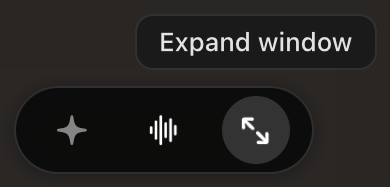
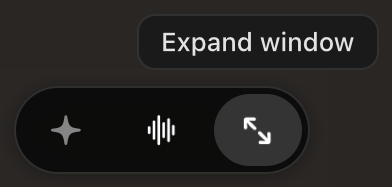
Mini toolbar: hover highlights follow the capsule shape
The highlight was a 34 pt circle in the 44 pt capsule: 5 pt from the top and bottom
but 12 pt from the rounded end. Highlights are now 44×36 pills with one 4 pt inset
everywhere (capsule edge → highlight, highlight → highlight), so the end ones are
concentric with the capsule's ends, as in superwhisper. Hit targets meet halfway
between buttons; the hands-free dot sits concentric with the pill's end.

diff --git a/App/RecordingWindow/MiniRecordingView.swift b/App/RecordingWindow/MiniRecordingView.swift
@@ -20,11 +20,15 @@ final class MiniRecordingView: RecordingWindowView {
     private static let margin: CGFloat = 12
     private static let tooltipZone: CGFloat = 38
     private static let sleepSize = CGSize(width: 56, height: 12)
-    private static let toolbarSize = CGSize(width: 150, height: 44)
+    private static let toolbarSize = CGSize(width: 2 * toolbarInset + 3 * highlightSize.width + 2 * toolbarInset,
+                                            height: 44)
     private static let activeSize = CGSize(width: 120, height: 34)
     private static let lockedActiveSize = CGSize(width: 138, height: 34)
-    private static let buttonSize: CGFloat = 34
-    private static let buttonGap: CGFloat = 12
+    /// One inset everywhere in the toolbar: from the capsule's edge to a hover highlight and
+    /// between highlights. The highlights are pills as tall as the capsule minus that inset, so
+    /// the end ones sit concentric with the capsule's rounded ends.
+    private static let toolbarInset: CGFloat = 4
+    private static let highlightSize = CGSize(width: 44, height: 44 - 2 * toolbarInset)
     /// Clear of the capsule's rounded ends, so bars never touch the curve.
     private static let waveformSize = CGSize(width: 84, height: 18)
     private static let messageWidth: CGFloat = 400
@@ -96,11 +100,11 @@ final class MiniRecordingView: RecordingWindowView {
         ]
         let symbols = ["sparkle", "waveform", "arrow.up.left.and.arrow.down.right"]
         for (index, (button, symbol)) in zip(buttons, symbols).enumerated() {
-            let centre = CGPoint(x: CGFloat(index - 1) * (Self.buttonSize + Self.buttonGap), y: 0)
-            button.highlight.bounds = CGRect(x: 0, y: 0, width: Self.buttonSize, height: Self.buttonSize)
+            let centre = CGPoint(x: CGFloat(index - 1) * (Self.highlightSize.width + Self.toolbarInset), y: 0)
+            button.highlight.bounds = CGRect(origin: .zero, size: Self.highlightSize)
             button.highlight.position = centre
-            button.highlight.cornerRadius = Self.buttonSize / 2
-            button.highlight.backgroundColor = NSColor.white.withAlphaComponent(0.16).cgColor
+            button.highlight.cornerRadius = Self.highlightSize.height / 2
+            button.highlight.backgroundColor = NSColor.white.withAlphaComponent(0.17).cgColor
             button.highlight.opacity = 0
             button.icon.bounds = CGRect(x: 0, y: 0, width: 18, height: 18)
             button.icon.position = centre
@@ -192,7 +196,7 @@ final class MiniRecordingView: RecordingWindowView {
             spring(buttonRow, "transform", CATransform3DMakeScale(next == .toolbar ? 1 : 0.7, next == .toolbar ? 1 : 0.7, 1), animated)
             let locked = next == .active && isLocked && mode == .recording
             spring(waveform.layer, "transform", CATransform3DMakeTranslation(locked ? 8 : 0, 0, 0), animated)
-            spring(lockDot, "position", NSValue(point: CGPoint(x: -size.width / 2 + 15, y: 0)), animated)
+            spring(lockDot, "position", NSValue(point: CGPoint(x: -size.width / 2 + size.height / 2, y: 0)), animated)  // concentric with the end
             hoverPad.frame = frame.insetBy(dx: -10, dy: -9)
             if messageVisible { spring(message.layer, "position", NSValue(point: messagePosition(for: frame)), animated) }
         }
@@ -379,7 +383,9 @@ final class MiniRecordingView: RecordingWindowView {
 
     private func buttonIndex(at point: NSPoint) -> Int? {
         buttons.firstIndex { button in
-            buttonRow.convert(button.highlight.frame, to: layer).insetBy(dx: -4, dy: -4).contains(point)
+            // Half the gap on each side, so neighbouring buttons' targets meet without overlapping.
+            buttonRow.convert(button.highlight.frame, to: layer)
+                .insetBy(dx: -Self.toolbarInset / 2, dy: -Self.toolbarInset).contains(point)
         }
     }
 
